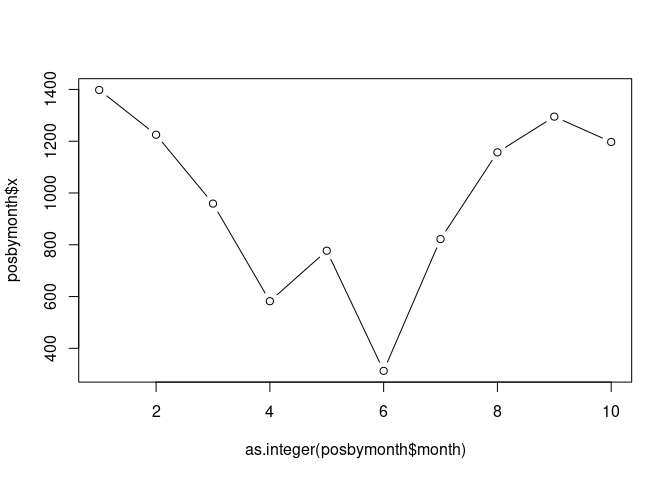
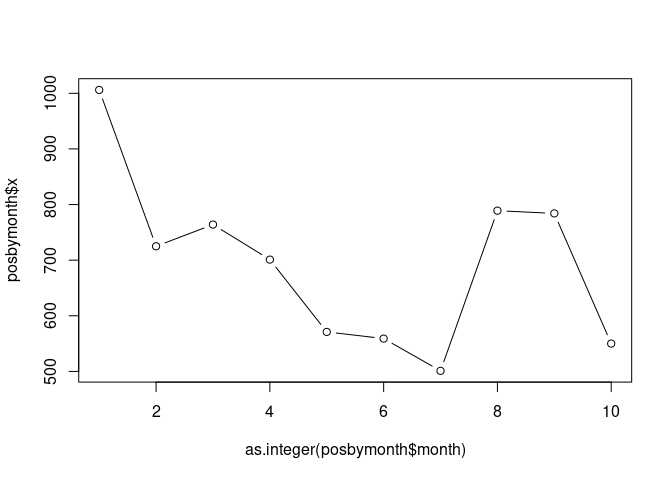
Updated practical 7 for academic year 2024-25

diff --git a/practical7.html b/practical7.html
@@ -23,26 +23,26 @@
 <pre><code>&gt; head(dat)
 
   setmana_epidemiologica  any data_inici data_final codi_regio
-1                     19 2023 08/05/2023 14/05/2023         67
-2                     25 2022 20/06/2022 26/06/2022         64
-3                     19 2023 08/05/2023 14/05/2023         78
-4                     42 2023 16/10/2023 22/10/2023         78
-5                     19 2023 08/05/2023 14/05/2023         78
-6                     20 2023 15/05/2023 21/05/2023         78
-          nom_regio codi_ambit          nom_ambit sexe grup_edat
-1 CATALUNYA CENTRAL       6700  CATALUNYA CENTRAL Dona   20 a 24
-2            GIRONA       6400             GIRONA Home     3 i 4
-3         BARCELONA       7802 METROPOLITANA NORD Dona   20 a 24
-4         BARCELONA       7802 METROPOLITANA NORD Home   15 a 19
-5         BARCELONA       7802 METROPOLITANA NORD Dona   40 a 44
-6         BARCELONA       7801  METROPOLITANA SUD Dona   65 a 69
-  index_socioeconomic total positiu
-1                   3     1       0
-2                   3     1       1
-3                   4     1       1
-4                   4     2       1
-5                   3     3       2
-6                   2     1       1</code></pre>
+1                     12 2023 20/03/2023 26/03/2023         62
+2                     44 2023 30/10/2023 05/11/2023         62
+3                     32 2022 08/08/2022 14/08/2022         75
+4                     27 2023 03/07/2023 09/07/2023         70
+5                     42 2022 17/10/2022 23/10/2022         64
+6                     11 2023 13/03/2023 19/03/2023         70
+                    nom_regio codi_ambit                   nom_ambit sexe
+1           Camp de Tarragona         62           Camp de Tarragona Dona
+2           Camp de Tarragona         62           Camp de Tarragona Home
+3 Barcelona Metropolitana Sud         75 Barcelona Metropolitana Sud Home
+4                     Penedès         70                     Penedès Home
+5                      Girona         64                      Girona Dona
+6                     Penedès         70                     Penedès Home
+  grup_edat index_socioeconomic total positiu
+1   30 a 34                   2     1       1
+2   30 a 34                   3     1       0
+3   35 a 39                   2     1       1
+4   60 a 64                   4     1       0
+5   70 a 74                   3     1       1
+6   70 a 74                   4     1       1</code></pre>
 <p><strong>Exercise</strong>: tabulate the values of the column <code>sexe</code> with the function <code>table()</code>. Add to the script <code>sivicanalysis.R</code> the following two lines to obtain a new <code>data.frame</code> object called <code>dat2</code> that excludes rows where the value in the column <code>sexe</code> is <code>No disponible</code>. You have to figure out the code that replaces the questions marks <code>??????</code> below.</p>
 <pre><code>&gt; mask &lt;- ??????
 &gt; dat2 &lt;- dat[mask, ]</code></pre>
@@ -55,8 +55,8 @@
 <p>Here the second argument informs the function <code>as.Date()</code> about the format of the input dates, in this case, <em>day/month/4-digit-year</em> corresponding to the format string <code>"%d/%m/%Y</code>. The help page of <code>as.Date()</code> contains full details about this. While R displays these objects as vectors of character strings in the format <em>4-digit-year-month-day</em>, they do belong to a different class of objects, the class <em>Date</em>.</p>
 <pre><code>&gt; head(startdate)
 
-[1] &quot;2023-05-08&quot; &quot;2022-06-20&quot; &quot;2023-05-08&quot; &quot;2023-10-16&quot; &quot;2023-05-08&quot;
-[6] &quot;2023-05-15&quot;
+[1] &quot;2023-03-20&quot; &quot;2023-10-30&quot; &quot;2022-08-08&quot; &quot;2023-07-03&quot; &quot;2022-10-17&quot;
+[6] &quot;2023-03-13&quot;
 
 &gt; class(startdate)
 
@@ -64,8 +64,8 @@
 
 &gt; head(enddate)
 
-[1] &quot;2023-05-14&quot; &quot;2022-06-26&quot; &quot;2023-05-14&quot; &quot;2023-10-22&quot; &quot;2023-05-14&quot;
-[6] &quot;2023-05-21&quot;
+[1] &quot;2023-03-26&quot; &quot;2023-11-05&quot; &quot;2022-08-14&quot; &quot;2023-07-09&quot; &quot;2022-10-23&quot;
+[6] &quot;2023-03-19&quot;
 
 &gt; class(enddate)
 
@@ -84,25 +84,25 @@ Time differences in days
 
 &gt; max(startdate)
 
-[1] &quot;2023-10-16&quot;</code></pre></li>
-<li><p>Subsetting data for a period of time. For instance, let’s subset the data, selecting rows corresponding to the last academic year from September 2022 to June 2023:</p>
-<pre><code>&gt; mask &lt;- startdate &gt;= as.Date(&quot;2022-09-01&quot;) &amp; enddate &lt;= as.Date(&quot;2023-06-30&quot;)
+[1] &quot;2024-10-14&quot;</code></pre></li>
+<li><p>Subsetting data for a period of time. For instance, let’s subset the data, selecting rows corresponding to the last academic year from September 2023 to June 2024:</p>
+<pre><code>&gt; mask &lt;- startdate &gt;= as.Date(&quot;2023-09-01&quot;) &amp; enddate &lt;= as.Date(&quot;2024-06-30&quot;)
 &gt; sum(mask)
 
-[1] 9833
+[1] 8116
 
-&gt; dat2yr2223 &lt;- dat2[mask, ]
-&gt; dim(dat2yr2223)
+&gt; dat2yr2324 &lt;- dat2[mask, ]
+&gt; dim(dat2yr2324)
 
-[1] 9833   13</code></pre>
-<p>Note that the number of <code>TRUE</code> values in the logical mask matches the resulting number of rows in the subsetted object <code>dat2yr2223</code>.</p></li>
+[1] 8116   13</code></pre>
+<p>Note that the number of <code>TRUE</code> values in the logical mask matches the resulting number of rows in the subsetted object <code>dat2yr2324</code>.</p></li>
 </ol>
 <p>Date data also allows one to easily extract the month of each date. Let’s extract again the starting date this time for the subsetted data, and see how do we get the months from those dates:</p>
-<pre><code>&gt; startdate &lt;- as.Date(dat2yr2223$data_inici, &quot;%d/%m/%Y&quot;)
+<pre><code>&gt; startdate &lt;- as.Date(dat2yr2324$data_inici, &quot;%d/%m/%Y&quot;)
 &gt; m &lt;- months(startdate, abbreviate=TRUE)
 &gt; head(m)
 
-[1] &quot;May&quot; &quot;May&quot; &quot;May&quot; &quot;May&quot; &quot;May&quot; &quot;May&quot;
+[1] &quot;Oct&quot; &quot;Sep&quot; &quot;Nov&quot; &quot;May&quot; &quot;Oct&quot; &quot;Sep&quot;
 
 &gt; class(m)
 
@@ -120,7 +120,7 @@ Time differences in days
 <pre><code>&gt; mf &lt;- factor(m)
 &gt; head(mf)
 
-[1] May May May May May May
+[1] Oct Sep Nov May Oct Sep
 Levels: Apr Dec Feb Jan Jun Mar May Nov Oct Sep</code></pre>
 <p>We can see that R displays factors differently to character strings, by showing the values without double quotes (<code>"</code>) and providing additional information about the possible <em>levels</em> of that factor. We can access the level information from a factor object with the functions <code>levels()</code> and <code>nlevels()</code>.</p>
 <pre><code>&gt; levels(mf)
@@ -136,7 +136,7 @@ Levels: Apr Dec Feb Jan Jun Mar May Nov Oct Sep</code></pre>
 +                          &quot;Jul&quot;, &quot;Aug&quot;, &quot;Sep&quot;, &quot;Oct&quot;, &quot;Nov&quot;, &quot;Dec&quot;))
 &gt; head(mf)
 
-[1] May May May May May May
+[1] Oct Sep Nov May Oct Sep
 Levels: Jan Feb Mar Apr May Jun Jul Aug Sep Oct Nov Dec
 
 &gt; levels(mf)
@@ -152,7 +152,7 @@ Levels: Jan Feb Mar Apr May Jun Jul Aug Sep Oct Nov Dec
 
 mf
  Jan  Feb  Mar  Apr  May  Jun  Jul  Aug  Sep  Oct  Nov  Dec 
-1374 1073  998  700  920  439    0    0  905 1166 1180 1078 </code></pre>
+1013  861  888  914  743  676    0    0  650  975  815  581 </code></pre>
 <p>We can see, there is no data for the months of July and August. We can remove levels of a factor for which there is no data with the function <code>droplevels()</code>.</p>
 <pre><code>&gt; mf &lt;- droplevels(mf)
 &gt; levels(mf)
@@ -163,46 +163,46 @@ mf
 
 mf
  Jan  Feb  Mar  Apr  May  Jun  Sep  Oct  Nov  Dec 
-1374 1073  998  700  920  439  905 1166 1180 1078 </code></pre>
-<p>One of the common uses of a factor is to aggregate numerical values by the levels of that factor. For instance, in our previous data, the column <code>positiu</code> contains the number of positively tested individuals, but each value in that column corresponds to the number per week, region, sex, age group and socioeconomical index. Let’s say we want to aggregate those positively tested individuals per month in the <code>data.frame</code> object <code>dat2yr2223</code>. We can use the function <code>aggregate()</code> for that purpose, as follows:</p>
-<pre><code>&gt; posbymonth &lt;- aggregate(dat2yr2223$positiu, list(month=mf), sum)</code></pre>
-<p>Here the first argument is the vector (column of <code>dat2yr2223</code> in this case) with numerical values that we want to aggregate, the second argument is a <code>list</code> object with one element for each factor whose levels we want to use to group the values, and the third argument is the function we want to use to summarize the data per group. The result is a <code>data.frame</code> object with one column per factor and a final column called <code>x</code> with the aggregate values:</p>
+1013  861  888  914  743  676  650  975  815  581 </code></pre>
+<p>One of the common uses of a factor is to aggregate numerical values by the levels of that factor. For instance, in our previous data, the column <code>positiu</code> contains the number of positively tested individuals, but each value in that column corresponds to the number per week, region, sex, age group and socioeconomical index. Let’s say we want to aggregate those positively tested individuals per month in the <code>data.frame</code> object <code>dat2yr2324</code>. We can use the function <code>aggregate()</code> for that purpose, as follows:</p>
+<pre><code>&gt; posbymonth &lt;- aggregate(dat2yr2324$positiu, list(month=mf), sum)</code></pre>
+<p>Here the first argument is the vector (column of <code>dat2yr2324</code> in this case) with numerical values that we want to aggregate, the second argument is a <code>list</code> object with one element for each factor whose levels we want to use to group the values, and the third argument is the function we want to use to summarize the data per group. The result is a <code>data.frame</code> object with one column per factor and a final column called <code>x</code> with the aggregate values:</p>
 <pre><code>&gt; posbymonth
 
    month    x
-1    Jan 1398
-2    Feb 1225
-3    Mar  959
-4    Apr  582
-5    May  777
-6    Jun  313
-7    Sep  822
-8    Oct 1157
-9    Nov 1295
-10   Dec 1197</code></pre>
+1    Jan 1006
+2    Feb  725
+3    Mar  764
+4    Apr  701
+5    May  571
+6    Jun  559
+7    Sep  501
+8    Oct  789
+9    Nov  784
+10   Dec  550</code></pre>
 <p>We can visualize these data in a <a href="https://en.wikipedia.org/wiki/Scatter_plot">scatter plot</a> by converting the factor into an integer, and plotting the month into the x-axis and the numerical value into the y-axis:</p>
 <pre><code>&gt; plot(as.integer(posbymonth$month), posbymonth$x, type=&quot;b&quot;)</code></pre>
 <p><img src="posbymonth-1.png" /></p>
 <p><strong>Exercise:</strong> look up in the help page of the <code>plot()</code> function, how can you change the labels for the <code>x</code> and <code>y</code> axes to a readable label whose meaning stands alone and minimally describes the data visualized in that axis. The resulting plot should be identical to the one above, but with the axes labels changed.</p>
 <p><strong>Exercise:</strong> Repeat the same plot, but instead of aggregating the number of positive cases, aggregate the positive rate by first calculating it using the columns <code>total</code> and <code>positiu</code>, and then using the <code>mean()</code> function to aggregate the values. Can you interpret the resulting plot?</p>
 <!--
-dat2yr2223$posRate <- dat2yr2223$positiu / dat2yr2223$total *100
-posRateByMonth <- aggregate(dat2yr2223$posRate, list(month=mf), mean)
+dat2yr2324$posRate <- dat2yr2324$positiu / dat2yr2324$total *100
+posRateByMonth <- aggregate(dat2yr2324$posRate, list(month=mf), mean)
 plot(as.integer(posRateByMonth$month), posRateByMonth$x, type="b")
 
 or, more numerically stable,
 
-pbym <- aggregate(dat2yr2223$positiu, list(month=mf), sum)
-tbym <- aggregate(dat2yr2223$total, list(month=mf), sum)
+pbym <- aggregate(dat2yr2324$positiu, list(month=mf), sum)
+tbym <- aggregate(dat2yr2324$total, list(month=mf), sum)
 pct <- 100 * pbym$x / tbym$x
 
 use this more numerically stable approach to suggest the plot below
 -->
-<p><strong>Exercise:</strong> Aggregate again the positive rate as in the previous exercise, but this time by two factors, month and age group (look up in the <code>data.frame</code> object <code>dat2yr2223</code> which column may store the age group). Assuming the result of the function <code>aggregate()</code> is stored into a <code>data.frame</code> object called <code>posrbymonthage</code>, plot the aggregated positive rate as function of the month using the following plotting instruction:</p>
+<p><strong>Exercise:</strong> Aggregate again the positive rate as in the previous exercise, but this time by two factors, month and age group (look up in the <code>data.frame</code> object <code>dat2yr2324</code> which column may store the age group). Assuming the result of the function <code>aggregate()</code> is stored into a <code>data.frame</code> object called <code>posrbymonthage</code>, plot the aggregated positive rate as function of the month using the following plotting instruction:</p>
 <pre><code>&gt; plot(posrbymonthage$x ~ posrbymontage$month, xlab=&quot;Month&quot;, ylab=&quot;Positive rate&quot;)</code></pre>
 <p>The resulting plot contains so-called <a href="https://en.wikipedia.org/wiki/Box_plot">box plots</a> for each month, which allow one to visualize the location and spread of the data in terms of <a href="https://en.wikipedia.org/wiki/Quartile">quartiles</a>. How would you interpret the different sizes of the boxes throughout the months of the year?</p>
 <!--
-dat2yr2223$month <- month=mf
-posrbymonthage <- aggregate(x = dat2yr2223$posRate,by = list(month=mf, edat= dat2yr2223$grup_edat) , mean)
+dat2yr2324$month <- month=mf
+posrbymonthage <- aggregate(x = dat2yr2324$posRate,by = list(month=mf, edat= dat2yr2324$grup_edat) , mean)
 plot(posrbymonthage$x ~ posrbymonthage$month, xlab="Month", ylab="Positive rate")
 -->
